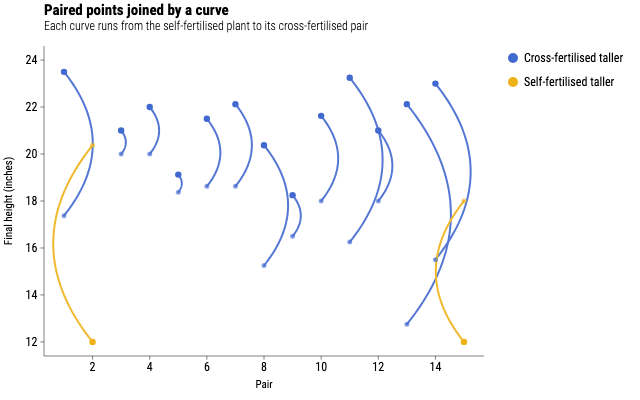
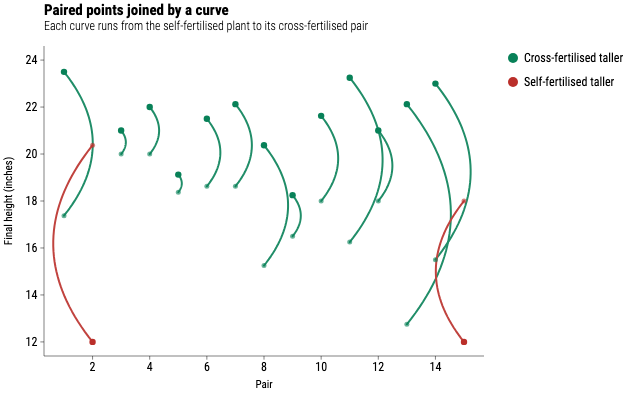
fix(examples): match palette cardinality to series count
Drop observable10 (and other oversized schemes) on low-n series.
Use 2–4 stop palettes (wsj_red_green, wsj_dem_rep, canva, wsj_rgby,
fivethirtyeight) so category colours come from a palette sized to the
data, not the default 10-stop table.

diff --git a/examples/line/multi-series/spec.ts b/examples/line/multi-series/spec.ts
@@ -10,10 +10,10 @@ export default defineExample(
     // is for, and match how Playfair plotted the observations themselves —
     // at 53 readings per series they read as data marks, not clutter.
     .geomPoint({ size: 1.6 })
-    // Domain fixed so series-to-colour never depends on row order; theme palette.
+    // Domain fixed so series-to-colour never depends on row order; 4-stop palette for two series.
     .scaleColorDiscrete({
       domain: ["Wheat / quarter", "Wage / week"],
-      scheme: "economist",
+      scheme: "wsj_rgby",
     })
     .scales({
       x: { breaks: [1600, 1650, 1700, 1750, 1800], labels: "d", nice: false },

diff --git a/examples/point/log-scale/spec.ts b/examples/point/log-scale/spec.ts
@@ -7,10 +7,10 @@ export default defineExample(
   gg(londonCholera, aes({ x: "density", y: "deathRate", color: "water" }))
     .geomPoint({ size: 3.5 })
     .scales(scaleXLog10({ labels: "~s" }))
-    // Domain fixed so company-to-colour never depends on row order; theme palette.
+    // Domain fixed so company-to-colour never depends on row order; 3-stop palette for three keys.
     .scaleColorDiscrete({
       domain: ["Battersea", "New River", "Kew"],
-      scheme: "economist",
+      scheme: "fivethirtyeight",
     })
     .theme("economist")
     .labs({

diff --git a/examples/curve/connectors/spec.ts b/examples/curve/connectors/spec.ts
@@ -13,7 +13,7 @@ export default defineExample(
     .geomPoint({ aes: { x: "pair", y: "cross" }, size: 3.2 })
     .scaleColorDiscrete({
       domain: ["Cross-fertilised taller", "Self-fertilised taller"],
-      scheme: "observable10",
+      scheme: "wsj_red_green",
     })
     .theme("classic")
     .labs({

diff --git a/examples/segment/annotations/spec.ts b/examples/segment/annotations/spec.ts
@@ -14,7 +14,7 @@ export default defineExample(
     .geomPoint({ aes: { x: "pair", y: "cross" }, size: 3.2 })
     .scaleColorDiscrete({
       domain: ["Cross-fertilised taller", "Self-fertilised taller"],
-      scheme: "observable10",
+      scheme: "wsj_red_green",
     })
     .theme("classic")
     .labs({

diff --git a/examples/rect/regions/Example.svelte b/examples/rect/regions/Example.svelte
@@ -32,7 +32,7 @@
     linewidth={2}
   />
   <ScaleXContinuous labels="d" />
-  <ScaleFillDiscrete domain={["Monarchy", "Commonwealth"]} scheme="economist" />
+  <ScaleFillDiscrete domain={["Monarchy", "Commonwealth"]} scheme="canva" />
   <ThemeEconomist />
   <Labs
     title="Background rectangles for eras"

diff --git a/examples/density/kde-2d-filled/spec.ts b/examples/density/kde-2d-filled/spec.ts
@@ -20,7 +20,7 @@ export default defineExample(
     // Domain fixed so Deaths/Pumps never flip with layer order; palette, not hex.
     .scaleColorDiscrete({
       domain: ["Deaths", "Pumps"],
-      scheme: "observable10",
+      scheme: "wsj_dem_rep",
     })
     .coordFixed()
     .theme("map")

diff --git a/examples/density/overlay/Example.svelte b/examples/density/overlay/Example.svelte
@@ -18,7 +18,7 @@
   height={400}
 >
   <GeomDensity alpha={0.45} />
-  <ScaleFillDiscrete domain={["Daughters", "Sons"]} scheme="flexoki" />
+  <ScaleFillDiscrete domain={["Daughters", "Sons"]} scheme="canva" />
   <ThemeMinimal />
   <Labs
     title="Two densities on one axis"

diff --git a/examples/curve/connectors/Example.svelte b/examples/curve/connectors/Example.svelte
@@ -23,7 +23,7 @@
   <GeomPoint aes={{ x: "pair", y: "cross" }} size={3.2} />
   <ScaleColorDiscrete
     domain={["Cross-fertilised taller", "Self-fertilised taller"]}
-    scheme="observable10"
+    scheme="wsj_red_green"
   />
   <ThemeClassic />
   <Labs

diff --git a/examples/segment/annotations/Example.svelte b/examples/segment/annotations/Example.svelte
@@ -23,7 +23,7 @@
   <GeomPoint aes={{ x: "pair", y: "cross" }} size={3.2} />
   <ScaleColorDiscrete
     domain={["Cross-fertilised taller", "Self-fertilised taller"]}
-    scheme="observable10"
+    scheme="wsj_red_green"
   />
   <ThemeClassic />
   <Labs

diff --git a/examples/density/kde-2d-filled/Example.svelte b/examples/density/kde-2d-filled/Example.svelte
@@ -26,7 +26,7 @@
     size={4}
     shape="cross"
   />
-  <ScaleColorDiscrete domain={["Deaths", "Pumps"]} scheme="observable10" />
+  <ScaleColorDiscrete domain={["Deaths", "Pumps"]} scheme="wsj_dem_rep" />
   <CoordFixed />
   <ThemeMap />
   <Labs

diff --git a/examples/rect/regions/spec.ts b/examples/rect/regions/spec.ts
@@ -28,7 +28,7 @@ export default defineExample(
     })
     .scaleFillDiscrete({
       domain: ["Monarchy", "Commonwealth"],
-      scheme: "economist",
+      scheme: "canva",
     })
     .scales({ x: { labels: "d" } })
     .theme("economist")

diff --git a/examples/point/log-scale/Example.svelte b/examples/point/log-scale/Example.svelte
@@ -23,7 +23,7 @@
   <ScaleXLog10 labels="~s" />
   <ScaleColorDiscrete
     domain={["Battersea", "New River", "Kew"]}
-    scheme="economist"
+    scheme="fivethirtyeight"
   />
   <ThemeEconomist />
   <GuideLegend channel="color" focus />
